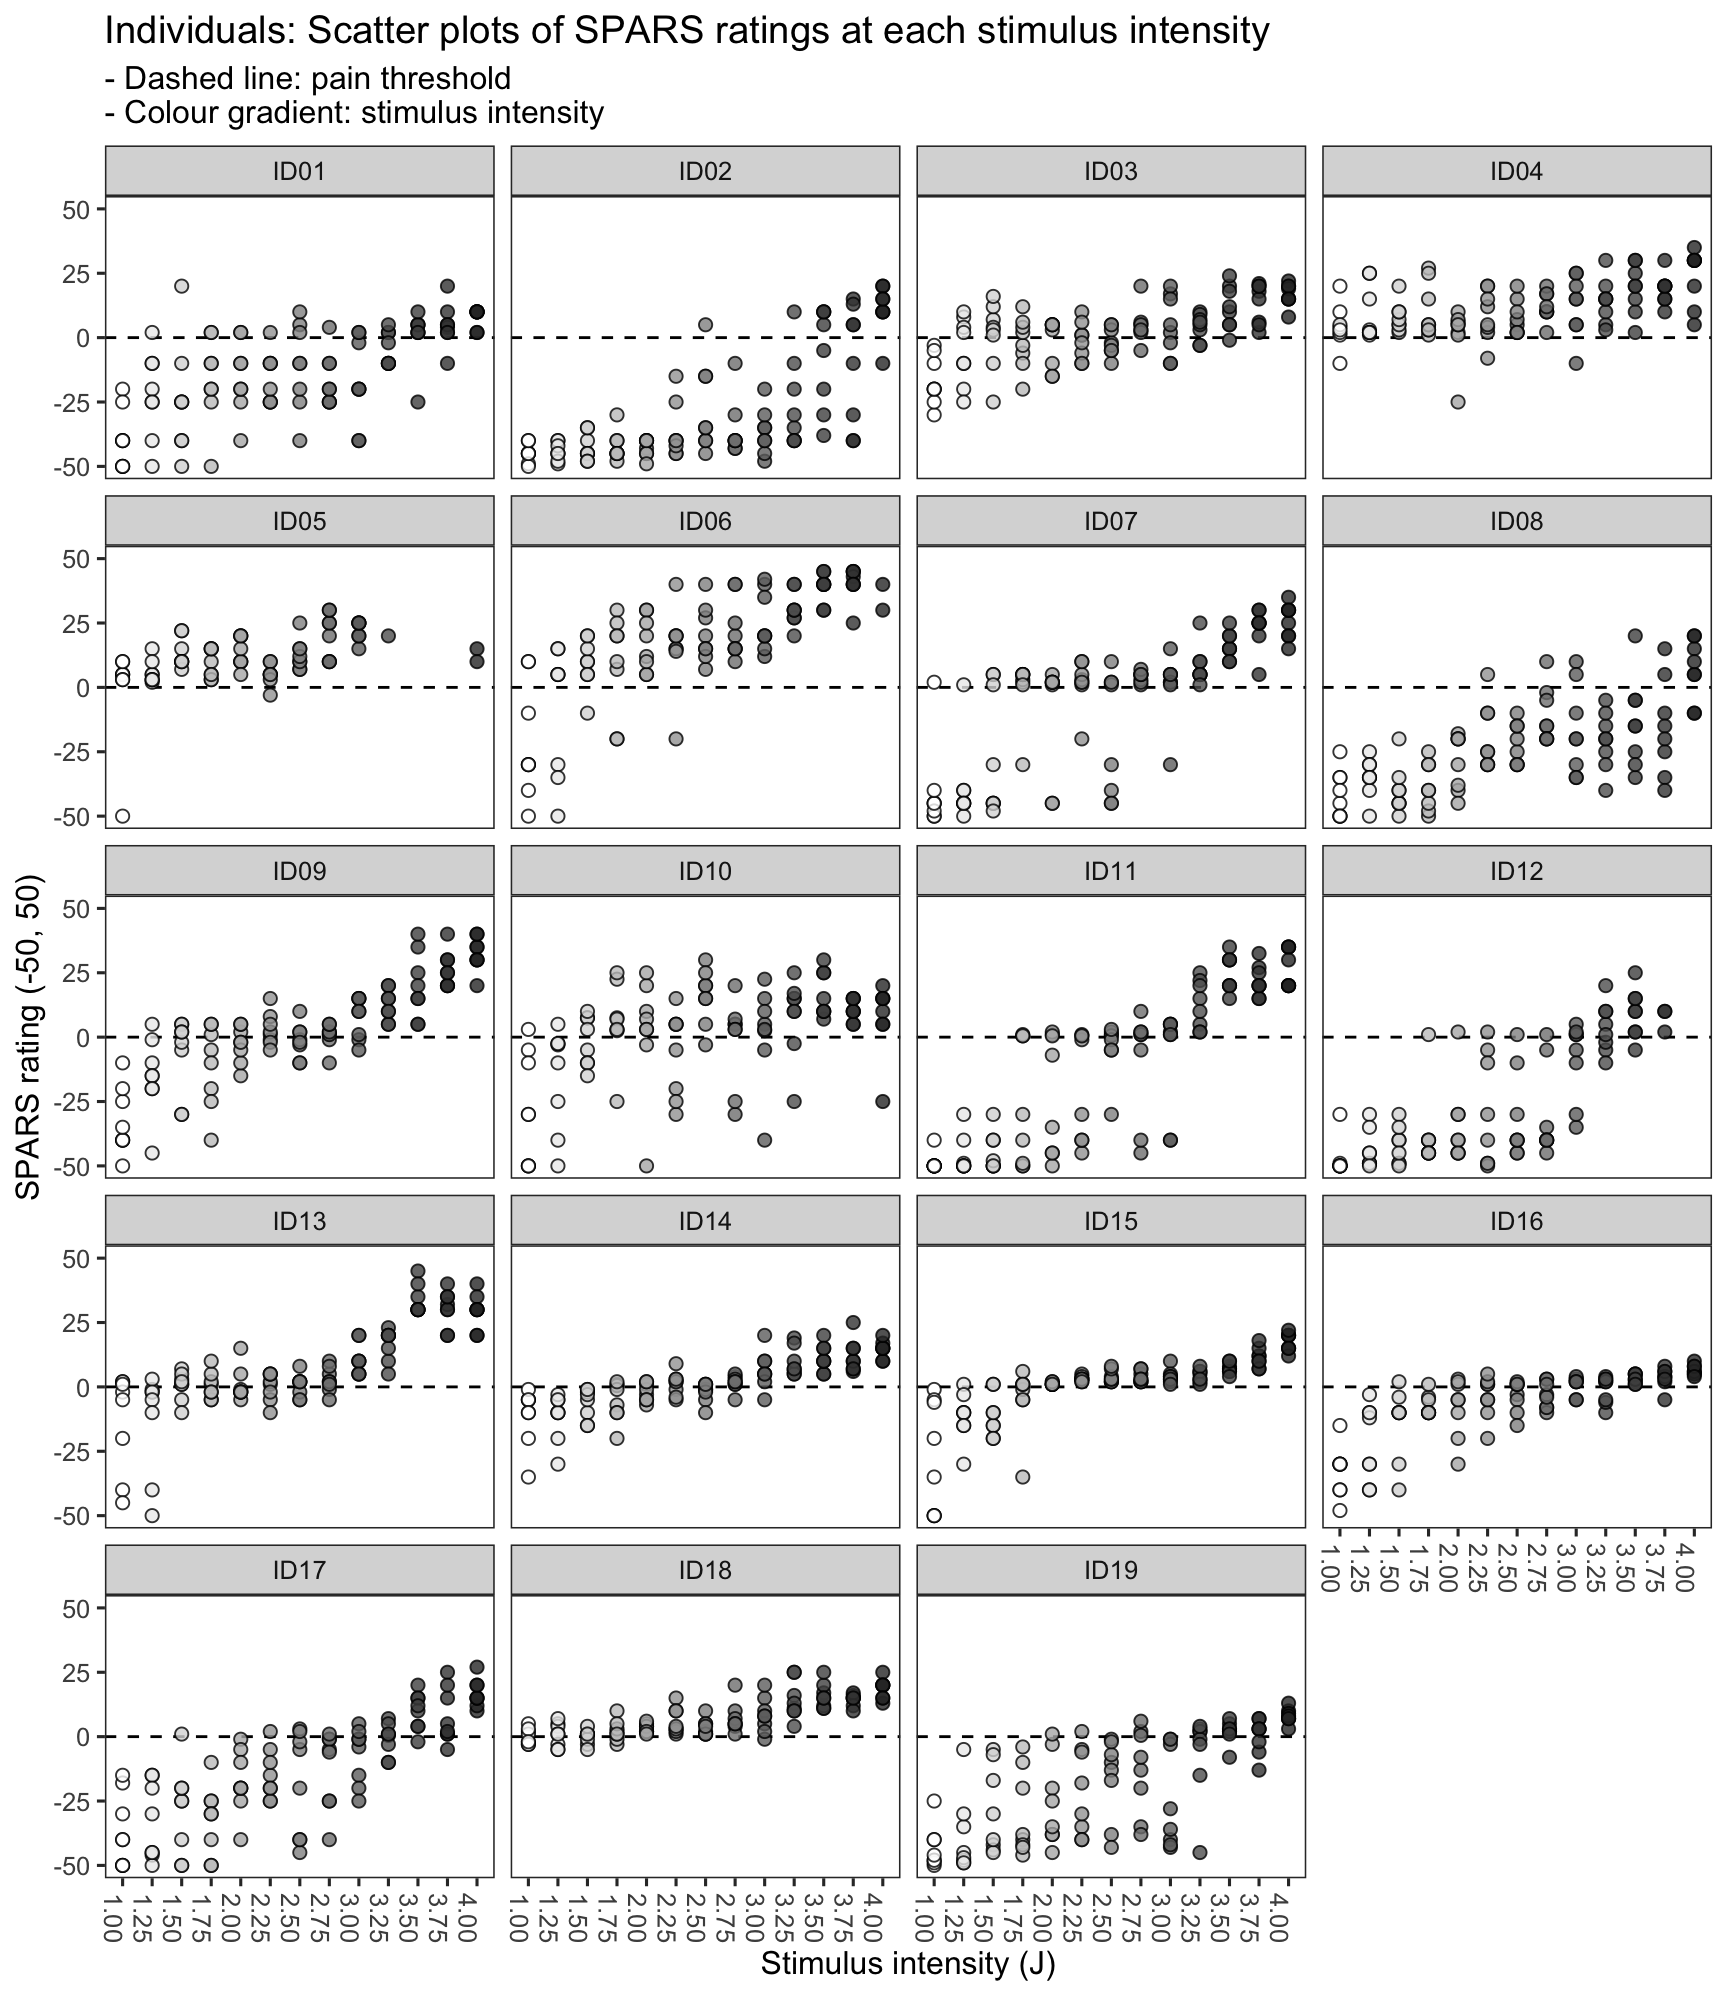
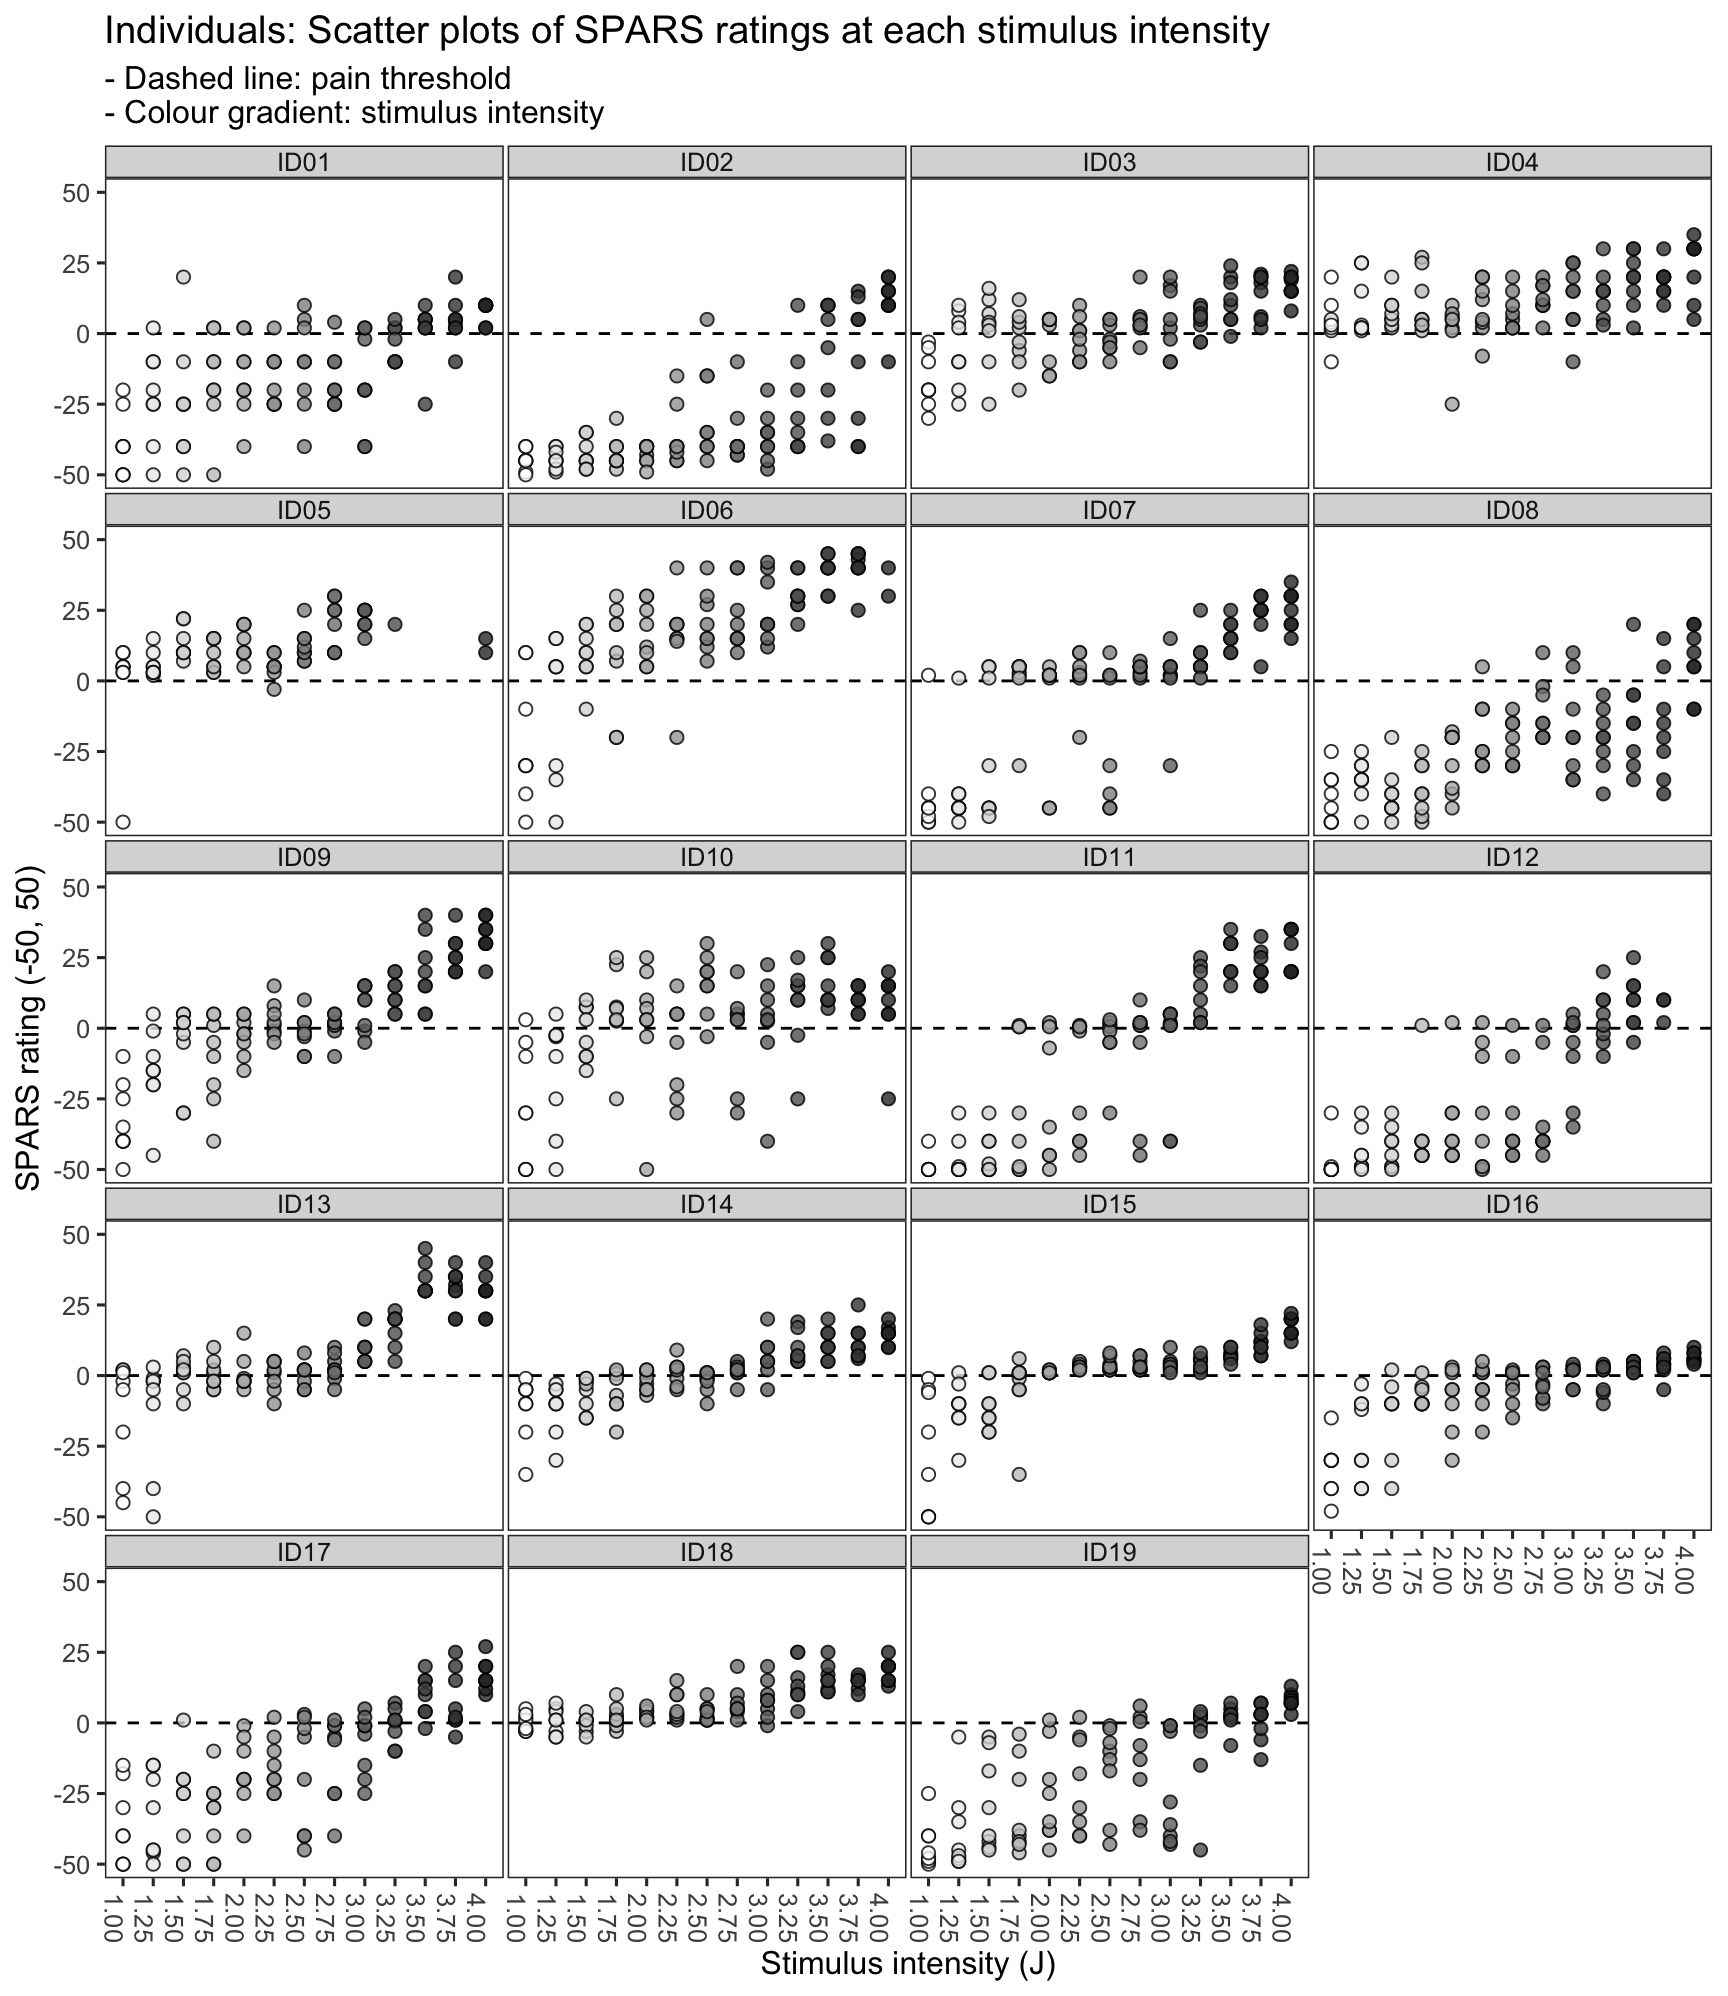
Re-knitted SPARSA-threshold-width.Rmd

diff --git a/SPARSA-theshold-width.md b/SPARSA-theshold-width.md
@@ -189,6 +189,12 @@ ggplot(data = data) +
          y = 'SPARS rating (-50, 50)') +
     theme(legend.position = 'none',
           panel.grid = element_blank(),
+          panel.spacing = unit(0.1, 'lines'),
+          strip.text = element_text(margin = margin(t = 0.1, 
+                                                    b = 0.1, 
+                                                    r = 1, 
+                                                    l = 1, 
+                                                    'lines')),
           axis.text.x = element_text(angle = -90))
 ```
 
@@ -223,6 +229,12 @@ ggplot(data = data_boot) +
          y = 'SPARS rating (-50, 50)') +
     theme(legend.position = 'none',
           panel.grid = element_blank(),
+          panel.spacing = unit(0.1, 'lines'),
+          strip.text = element_text(margin = margin(t = 0.1, 
+                                                    b = 0.1, 
+                                                    r = 1, 
+                                                    l = 1, 
+                                                    'lines')),
           axis.text.x = element_text(angle = -90))
 ```
 
